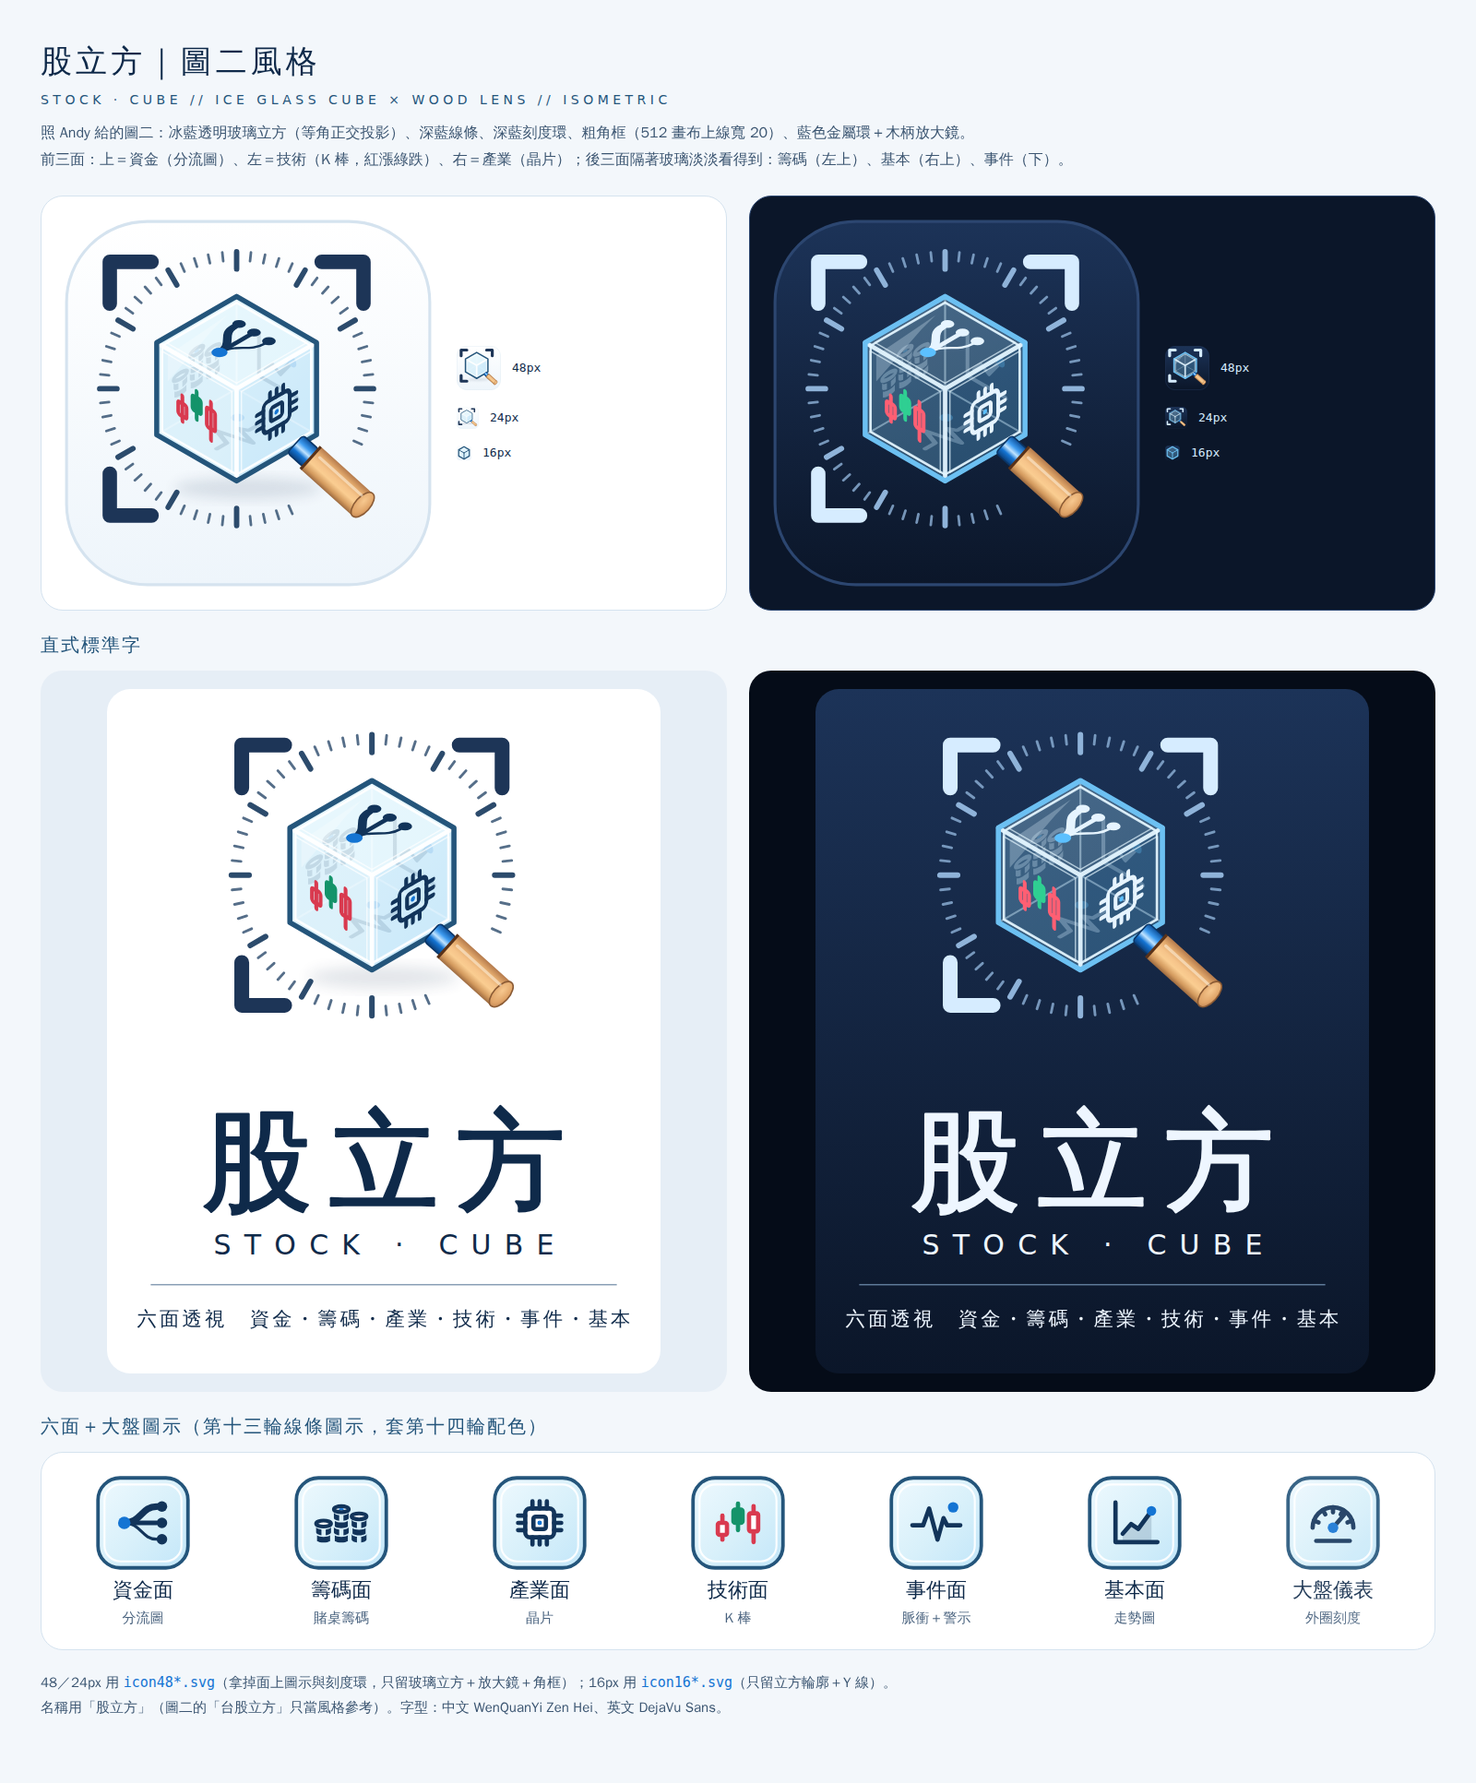
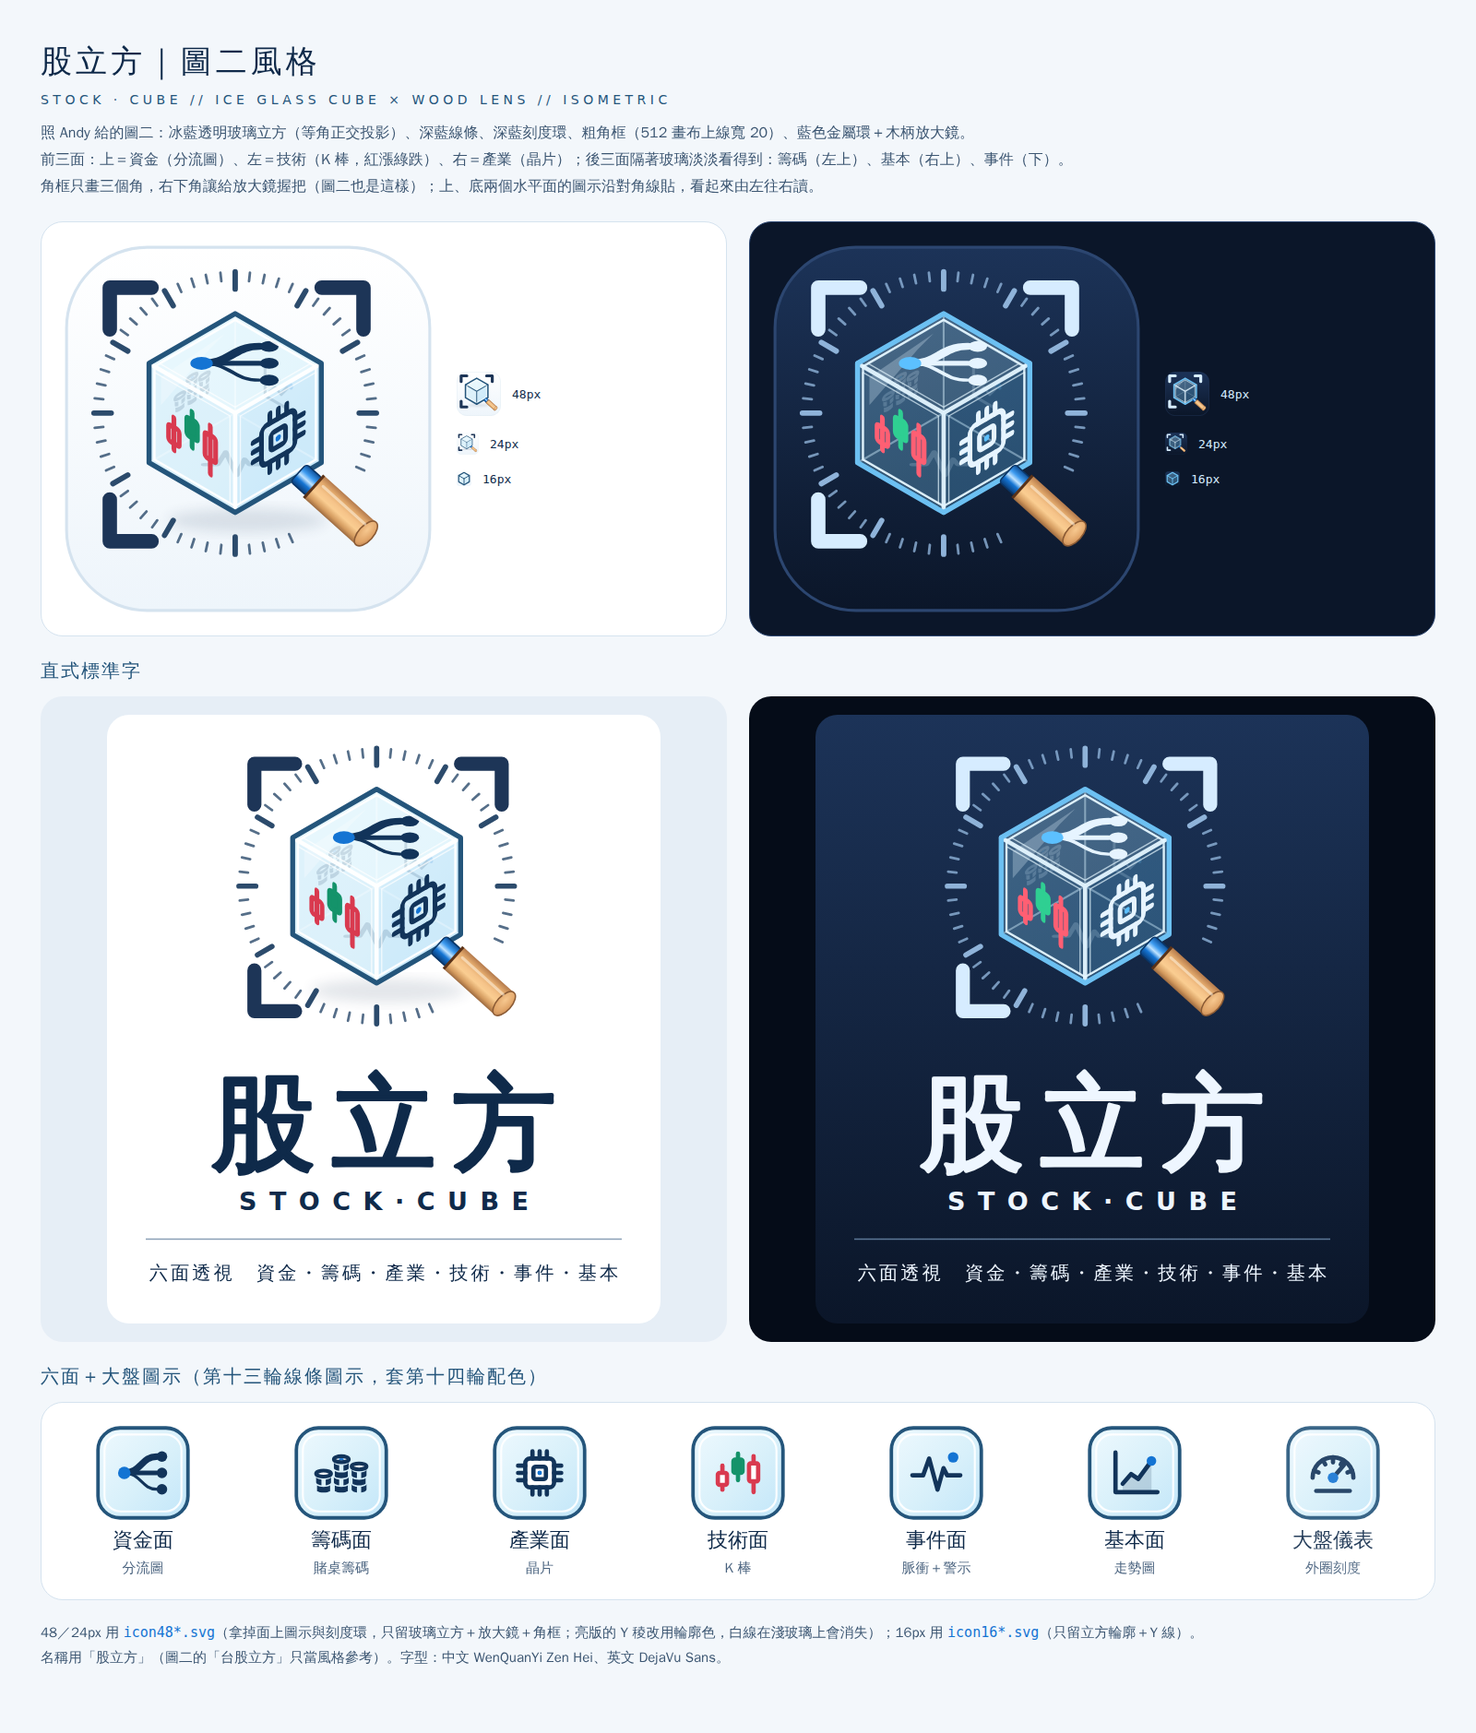
行銷：第十四輪〈股立方〉圖二風格立方標誌（冰藍玻璃＋粗角框＋木柄放大鏡）定稿；六面圖示改版（分流圖／賭桌籌碼／晶片／走勢圖）
Claude-Session: https://claude.ai/code/session_012KwvcGV2Non4TXRandryJJ

diff --git a/docs/brand/v14/_sheet.html b/docs/brand/v14/_sheet.html
@@ -16,13 +16,13 @@ h2{font-size:20px;letter-spacing:.1em;margin:8px 0 14px;color:#24557b}
 </style></head><body>
 <h1>股立方｜圖二風格</h1><div class="en">STOCK · CUBE // ICE GLASS CUBE × WOOD LENS // ISOMETRIC</div>
 <p>照 Andy 給的圖二：冰藍透明玻璃立方（等角正交投影）、深藍線條、深藍刻度環、粗角框（512 畫布上線寬 20）、藍色金屬環＋木柄放大鏡。<br>
-前三面：<b>上＝資金（分流圖）</b>、<b>左＝技術（K 棒，紅漲綠跌）</b>、<b>右＝產業（晶片）</b>；後三面隔著玻璃淡淡看得到：籌碼（左上）、基本（右上）、事件（下）。</p>
+前三面：<b>上＝資金（分流圖）</b>、<b>左＝技術（K 棒，紅漲綠跌）</b>、<b>右＝產業（晶片）</b>；後三面隔著玻璃淡淡看得到：籌碼（左上）、基本（右上）、事件（下）。<br>角框只畫三個角，右下角讓給放大鏡握把（圖二也是這樣）；上、底兩個水平面的圖示沿對角線貼，看起來由左往右讀。</p>
 <div class="row"><div class="card lt"><img class="big" src="icon_light.svg"><div class="smalls"><div class="sz"><img src="icon48.svg" width="48" height="48"><span>48px</span></div><div class="sz"><img src="icon48.svg" width="24" height="24"><span>24px</span></div><div class="sz"><img src="icon16.svg" width="16" height="16"><span>16px</span></div></div></div>
 <div class="card dk"><img class="big" src="icon_dark.svg"><div class="smalls"><div class="sz"><img src="icon48_dark.svg" width="48" height="48"><span>48px</span></div><div class="sz"><img src="icon48_dark.svg" width="24" height="24"><span>24px</span></div><div class="sz"><img src="icon16_dark.svg" width="16" height="16"><span>16px</span></div></div></div></div>
 <h2>直式標準字</h2>
 <div class="row"><div class="lock"><img src="lockup_light.svg"></div><div class="lock" style="background:#050c18"><img src="lockup_dark.svg"></div></div>
 <h2>六面＋大盤圖示（第十三輪線條圖示，套第十四輪配色）</h2>
 <div class="bads"><div class="b"><img src="badge/flow.svg" width="104" height="104"><b>資金面</b><i>分流圖</i></div><div class="b"><img src="badge/chips.svg" width="104" height="104"><b>籌碼面</b><i>賭桌籌碼</i></div><div class="b"><img src="badge/chain.svg" width="104" height="104"><b>產業面</b><i>晶片</i></div><div class="b"><img src="badge/tech.svg" width="104" height="104"><b>技術面</b><i>K 棒</i></div><div class="b"><img src="badge/event.svg" width="104" height="104"><b>事件面</b><i>脈衝＋警示</i></div><div class="b"><img src="badge/fund.svg" width="104" height="104"><b>基本面</b><i>走勢圖</i></div><div class="b"><img src="badge/market.svg" width="104" height="104"><b>大盤儀表</b><i>外圈刻度</i></div></div>
-<p class="foot">48／24px 用 <code>icon48*.svg</code>（拿掉面上圖示與刻度環，只留玻璃立方＋放大鏡＋角框）；16px 用 <code>icon16*.svg</code>（只留立方輪廓＋Y 線）。<br>
+<p class="foot">48／24px 用 <code>icon48*.svg</code>（拿掉面上圖示與刻度環，只留玻璃立方＋放大鏡＋角框；亮版的 Y 稜改用輪廓色，白線在淺玻璃上會消失）；16px 用 <code>icon16*.svg</code>（只留立方輪廓＋Y 線）。<br>
 名稱用「股立方」（圖二的「台股立方」只當風格參考）。字型：中文 WenQuanYi Zen Hei、英文 DejaVu Sans。</p>
 </body></html>

diff --git a/docs/brand/v14/_gen.py b/docs/brand/v14/_gen.py
@@ -15,14 +15,14 @@ LIGHT = dict(
     glyph='#12345a', acc='#1474d3', rise='#d93a4f', fall='#14936a',
     outline='#24557b', tick='#2c4b6c', bracket='#1d3557',
     top='#e8f7fd', left='#d7eefa', right='#c6e8fa', base='#dff2fb', face_op=.55, base_op=.92,
-    hi='#ffffff', hidden_op=.75, back_op=.28)
+    hi='#ffffff', hidden_op=.75, back_op=.32)
 DARK = dict(
     name='dark', bg0='#1c3358', bg1='#0b1629', tile_stroke='#2c4670',
     ink='#eef6ff', sub='#9fb6cf', rule='#5d7898',
     glyph='#e6f4ff', acc='#5cc0ff', rise='#ff5f73', fall='#2fcf92',
     outline='#6cc0f2', tick='#8fb3d9', bracket='#d6ecff',
     top='#a9e2fb', left='#7cc6ef', right='#5aaee0', base='#6fbde8', face_op=.2, base_op=.16,
-    hi='#e4f6ff', hidden_op=.45, back_op=.3)
+    hi='#e4f6ff', hidden_op=.45, back_op=.2)
 
 # 面上的圖示：前三面（上＝資金分流、左＝技術 K 棒、右＝產業晶片），後三面隔著玻璃（籌碼、事件、基本）
 FRONT = {'top': v13.flow, 'left': v13.candle, 'right': v13.chain}
@@ -54,6 +54,20 @@ class Cube:
         O, X, Y = self.face[k]
         D = (X[0] + Y[0] - O[0], X[1] + Y[1] - O[1])
         return [O, X, D, Y]
+
+    def matrix_flat(self, k, fill=.62):
+        """水平面（上、底）改用「沿兩條對角線」貼：等於把圖示在面上轉 45° 再投影 ——
+        仍然精準落在面上，但看起來是水平、由左往右讀（圖二上面那顆輪動箭頭就是這樣擺的）。
+        fill：圖示半寬／面的半對角線（圖示四角是空的，所以可以略大於內接的 0.5）"""
+        q = self.quad(k)
+        cx = sum(x for x, _ in q)/4; cy = sum(y for _, y in q)/4
+        a = S3*self.s*fill; b = .5*self.s*fill              # 水平、垂直半對角線 × fill
+        f = 2/24
+        return f'matrix({a*f:.4f} 0 0 {b*f:.4f} {cx - a:.2f} {cy - b:.2f})'
+
+    def place(self, k, pad):
+        # 水平面的大小另外換算：前面（pad 小）用 0.6、隔著玻璃的底面（pad 大）用 0.44
+        return self.matrix_flat(k, .6 if pad < .2 else .44) if k in ('top', 'bottom') else self.matrix(k, pad)
 
     def matrix(self, k, pad=.17):
         """把 24×24 圖示貼進面 k（四周留 pad 比例的邊）"""
@@ -109,7 +123,8 @@ def brackets(P, x0, y0, x1, y1, L, w, corners=('tl', 'tr', 'bl')):
     return f'<path d="{"".join(seg[c] for c in corners)}" fill="none" stroke="{P["bracket"]}" stroke-width="{w}" stroke-linecap="round" stroke-linejoin="round"/>'
 
 
-def glass_cube(cb, P, u, glyphs=True, ow=7.0, yw=7.0, sw=1.7):
+def glass_cube(cb, P, u, glyphs=True, ow=7.0, yw=7.0, sw=1.7, ycol=None):
+    """ycol：前面 Y 稜的顏色；大圖用白色高光（圖二的做法），48px 改用輪廓色，否則白線在淺色玻璃上會消失"""
     C = cb.C; s = cb.s
     o = []
     # 地上的影子（只有亮版）
@@ -120,7 +135,7 @@ def glass_cube(cb, P, u, glyphs=True, ow=7.0, yw=7.0, sw=1.7):
     # 2) 後三面的圖示（隔著玻璃，淡）＋看不見的三條稜（白色細線）
     if glyphs:
         for k, fn in BACK.items():
-            o.append(f'<g opacity="{P["back_op"]}" transform="{cb.matrix(k)}">{glyph(fn, P, sw)}</g>')
+            o.append(f'<g opacity="{P["back_op"]}" transform="{cb.place(k, .27)}">{glyph(fn, P, sw)}</g>')
     o.append(f'<path d="M{C[0]:.1f} {C[1]:.1f}L{cb.T[0]:.1f} {cb.T[1]:.1f}M{C[0]:.1f} {C[1]:.1f}L{cb.LL[0]:.1f} {cb.LL[1]:.1f}M{C[0]:.1f} {C[1]:.1f}L{cb.LR[0]:.1f} {cb.LR[1]:.1f}" '
              f'stroke="{P["hi"]}" stroke-width="{yw*.45:.1f}" stroke-opacity="{P["hidden_op"]}" stroke-linecap="round"/>')
     # 3) 前三面：各自一層玻璃色＋內側白色細框（玻璃厚度的高光）
@@ -134,10 +149,10 @@ def glass_cube(cb, P, u, glyphs=True, ow=7.0, yw=7.0, sw=1.7):
     o.append(f'<polygon points="{pts([(a[0] + s*.12, a[1] + s*.14), (b[0] - s*.1, b[1] + s*.2), (b[0] - s*.26, b[1] + s*.36), (a[0] + s*.12, a[1] + s*.42)])}" fill="{P["hi"]}" opacity=".28"/>')
     if glyphs:
         for k, fn in FRONT.items():
-            o.append(f'<g transform="{cb.matrix(k)}">{glyph(fn, P, sw)}</g>')
+            o.append(f'<g transform="{cb.place(k, .11)}">{glyph(fn, P, sw)}</g>')
     # 4) 前面的 Y 稜（白色亮線）＋外輪廓（藍色粗圓角線）＋輪廓內側一圈白
     o.append(f'<path d="M{C[0]:.1f} {C[1]:.1f}L{cb.UL[0]:.1f} {cb.UL[1]:.1f}M{C[0]:.1f} {C[1]:.1f}L{cb.UR[0]:.1f} {cb.UR[1]:.1f}M{C[0]:.1f} {C[1]:.1f}L{cb.B[0]:.1f} {cb.B[1]:.1f}" '
-             f'stroke="{P["hi"]}" stroke-width="{yw:.1f}" stroke-opacity=".95" stroke-linecap="round"/>')
+             f'stroke="{ycol or P["hi"]}" stroke-width="{yw:.1f}" stroke-opacity=".95" stroke-linecap="round"/>')
     o.append(f'<polygon points="{pts(shrink(cb.hex, C, 1 - (ow*1.25)/s))}" fill="none" stroke="{P["hi"]}" stroke-opacity=".9" stroke-width="{ow*.45:.1f}" stroke-linejoin="round"/>')
     o.append(f'<polygon points="{pts(cb.hex)}" fill="none" stroke="{P["outline"]}" stroke-width="{ow:.1f}" stroke-linejoin="round"/>')
     return ''.join(o)
@@ -173,8 +188,8 @@ def icon(P, u, size='L', tile=True):
         o.append('</svg>')
         return '\n'.join(o)
     if size == 'L':
-        cx, cy, s = 240, 236, 128
-        o.append(ring(P, cx, cy, 190))
+        cx, cy, s = 238, 234, 138
+        o.append(ring(P, cx, cy, 196))
         o.append(brackets(P, 64, 60, 416, 412, 58, 20))
         cb = Cube(cx, cy, s)
         o.append(glass_cube(cb, P, u, glyphs=True, ow=7, yw=6, sw=1.7))
@@ -183,7 +198,7 @@ def icon(P, u, size='L', tile=True):
         cx, cy, s = 232, 226, 150
         o.append(brackets(P, 52, 48, 412, 408, 66, 34))
         cb = Cube(cx, cy, s)
-        o.append(glass_cube(cb, P, u, glyphs=False, ow=16, yw=14))
+        o.append(glass_cube(cb, P, u, glyphs=False, ow=16, yw=11, ycol=P['outline'] if P['name'] == 'light' else None))
         o.append(magnifier(cb, P, u, k=1.32))
     o.append('</svg>')
     return '\n'.join(o)
@@ -194,23 +209,23 @@ def save(name, s):
 
 
 # ---------- 直式標準字 ----------
-NAME, EN = '股立方', 'STOCK · CUBE'
+NAME, EN = '股立方', 'STOCK·CUBE'
 TAG = '六面透視　資金・籌碼・產業・技術・事件・基本'
 
 def lockup(P, u):
     ic = icon(P, u, 'L', tile=False)
     inner = ic.split('>', 1)[1].rsplit('</svg>', 1)[0]      # 直接內嵌（用 <img> 開的 SVG 不能再引用外部檔）
-    W, H = 760, 940
+    W, H = 800, 880
     bg = (f'<rect width="{W}" height="{H}" rx="32" fill="{P["bg0"]}"/>' if P['name'] == 'light' else
           f'<defs><linearGradient id="{u}lbg" x1="0" y1="0" x2="0" y2="1"><stop offset="0" stop-color="{P["bg0"]}"/><stop offset="1" stop-color="{P["bg1"]}"/></linearGradient></defs>'
           f'<rect width="{W}" height="{H}" rx="32" fill="url(#{u}lbg)"/>')
     # letter-spacing 會在最後一個字後面也加一段，所以置中時 x 往右補半個字距
     return f'''<svg xmlns="http://www.w3.org/2000/svg" viewBox="0 0 {W} {H}" width="{W}" height="{H}">{bg}
-<svg x="120" y="16" width="520" height="520" viewBox="0 0 512 512">{inner}</svg>
-<text x="{W/2 + 12}" y="700" text-anchor="middle" font-family="WenQuanYi Zen Hei" font-size="150" font-weight="700" letter-spacing="24" fill="{P["ink"]}" stroke="{P["ink"]}" stroke-width="3.5" stroke-linejoin="round">{NAME}</text>
-<text x="{W/2 + 9}" y="776" text-anchor="middle" font-family="DejaVu Sans" font-size="38" letter-spacing="18" fill="{P["ink"]}">{EN}</text>
-<path d="M60 818H{W - 60}" stroke="{P["rule"]}" stroke-width="2"/>
-<text x="{W/2 + 2}" y="874" text-anchor="middle" font-family="WenQuanYi Zen Hei" font-size="27" font-weight="600" letter-spacing="4" fill="{P["ink"]}">{TAG}</text></svg>'''
+<svg x="{W/2 - 260 + 8}" y="10" width="520" height="520" viewBox="0 0 512 512">{inner}</svg>
+<text x="{W/2 + 12}" y="642" text-anchor="middle" font-family="WenQuanYi Zen Hei" font-size="150" font-weight="700" letter-spacing="24" fill="{P["ink"]}" stroke="{P["ink"]}" stroke-width="6" stroke-linejoin="round">{NAME}</text>
+<text x="{W/2 + 9}" y="716" text-anchor="middle" font-family="DejaVu Sans" font-weight="700" font-size="36" letter-spacing="18" fill="{P["ink"]}">{EN}</text>
+<path d="M56 758H{W - 56}" stroke="{P["rule"]}" stroke-width="2"/>
+<text x="{W/2 + 2}" y="816" text-anchor="middle" font-family="WenQuanYi Zen Hei" font-size="27" font-weight="600" letter-spacing="4" fill="{P["ink"]}">{TAG}</text></svg>'''
 
 
 # ---------- 六面＋大盤徽章（第十四輪配色：冰藍玻璃底、深藍線） ----------
@@ -250,14 +265,14 @@ h2{{font-size:20px;letter-spacing:.1em;margin:8px 0 14px;color:#24557b}}
 </style></head><body>
 <h1>股立方｜圖二風格</h1><div class="en">STOCK · CUBE // ICE GLASS CUBE × WOOD LENS // ISOMETRIC</div>
 <p>照 Andy 給的圖二：冰藍透明玻璃立方（等角正交投影）、深藍線條、深藍刻度環、粗角框（512 畫布上線寬 20）、藍色金屬環＋木柄放大鏡。<br>
-前三面：<b>上＝資金（分流圖）</b>、<b>左＝技術（K 棒，紅漲綠跌）</b>、<b>右＝產業（晶片）</b>；後三面隔著玻璃淡淡看得到：籌碼（左上）、基本（右上）、事件（下）。</p>
+前三面：<b>上＝資金（分流圖）</b>、<b>左＝技術（K 棒，紅漲綠跌）</b>、<b>右＝產業（晶片）</b>；後三面隔著玻璃淡淡看得到：籌碼（左上）、基本（右上）、事件（下）。<br>角框只畫三個角，右下角讓給放大鏡握把（圖二也是這樣）；上、底兩個水平面的圖示沿對角線貼，看起來由左往右讀。</p>
 <div class="row"><div class="card lt"><img class="big" src="icon_light.svg"><div class="smalls">{sm('')}</div></div>
 <div class="card dk"><img class="big" src="icon_dark.svg"><div class="smalls">{sm('_dark')}</div></div></div>
 <h2>直式標準字</h2>
 <div class="row"><div class="lock"><img src="lockup_light.svg"></div><div class="lock" style="background:#050c18"><img src="lockup_dark.svg"></div></div>
 <h2>六面＋大盤圖示（第十三輪線條圖示，套第十四輪配色）</h2>
 <div class="bads">{bd}</div>
-<p class="foot">48／24px 用 <code>icon48*.svg</code>（拿掉面上圖示與刻度環，只留玻璃立方＋放大鏡＋角框）；16px 用 <code>icon16*.svg</code>（只留立方輪廓＋Y 線）。<br>
+<p class="foot">48／24px 用 <code>icon48*.svg</code>（拿掉面上圖示與刻度環，只留玻璃立方＋放大鏡＋角框；亮版的 Y 稜改用輪廓色，白線在淺玻璃上會消失）；16px 用 <code>icon16*.svg</code>（只留立方輪廓＋Y 線）。<br>
 名稱用「股立方」（圖二的「台股立方」只當風格參考）。字型：中文 WenQuanYi Zen Hei、英文 DejaVu Sans。</p>
 </body></html>'''
 

diff --git a/docs/marketing/six_faces.md b/docs/marketing/six_faces.md
@@ -23,15 +23,15 @@
 ## 簡易圖示（`docs/brand/v13/`，總覽 `六面圖示.png`）
 | 面 | 圖示 | 檔名 |
 |---|---|---|
-| 資金面 | 兩段輪動箭頭＋盤心 | `flow` |
-| 籌碼面 | 一疊籌碼（字面意思） | `chips` |
-| 產業面 | 上游 → 樞紐 → 下游節點 | `chain` |
+| 資金面 | 分流圖：左邊一個來源點，三條粗細不同的平滑曲線流到右邊三個族群（網站「資金去向」的簡易版） | `flow` |
+| 籌碼面 | 賭桌籌碼：三疊高低不同，側邊有賭場籌碼的色塊缺口 | `chips` |
+| 產業面 | 晶片（IC）：方形外框、四邊針腳、中間內方塊（檔名沿用 `chain`） | `chain` |
 | 技術面 | 三根 K 棒（線條版空心＝漲、實心＝跌；徽章版紅漲綠跌） | `tech` |
 | 事件面 | 脈衝＋警示點 | `event` |
-| 基本面 | 財報文件＋營收上升線 | `fund` |
+| 基本面 | 走勢圖：L 形座標軸＋走勢折線＋末端一點（徽章版加淡淡面積） | `fund` |
 | 大盤儀表（外圈，不算一面） | 儀表盤 | `market` |
 
 - `line/*.svg`：24×24、單色 `currentColor`，放進網站會跟著深淺主題變色；48／24／16px 都驗過看得清楚。
 - `badge/*.svg`：96×96 霧面玻璃徽章（同第十二輪的配色），對外宣傳、介紹頁用。
 - `faces.svg`：sprite，網站用 `<svg><use href="faces.svg#face-flow"/></svg>`。
-- ⚠ 籌碼面、基本面的圖示和第十二輪立方面上的圖（正負柱、營收線）不同 —— 簡易圖示以「一眼認得」優先；立方面上的圖要不要跟著換，等標誌定案一起改。
+- 2026-10-02 第十四輪（`docs/brand/v14/`，總覽 `股立方_圖二風格.png`）：照圖二風格重做標誌，立方面上的圖直接用這一套簡易圖示（上＝資金、左＝技術、右＝產業；後三面隔著玻璃：籌碼、基本、事件），兩邊已經一致。

diff --git a/HANDOFF.md b/HANDOFF.md
@@ -30,6 +30,7 @@ pytest 639 passed（只動 `site/**` 與 `_uitest.py`，照規矩可跳，仍跑
 - **交給 Codex 設計（2026-09-26 晚，Andy：「我需要提供網頁給 codeX 設計」）**：說明書 `docs/codex_design_brief.md`
   （分支規則：從本分支開 `codex/ui-design`、PR 合回本分支、絕不推 main；setup script 要先 `build_payload`；可改／不可改的檔案；硬規則；驗收段落）。
   `_preview.py`／`_uitest.py`／`_show.py` 的 Chromium 路徑改成「有 /opt/pw-browsers/chromium 才用，沒有就用 Playwright 自己裝的」，Codex 環境才跑得起來。
+- **品牌第十三～十四輪（2026-10-02）**：六面簡易圖示改版（資金＝分流圖、籌碼＝賭桌籌碼、產業＝晶片、基本＝走勢圖；`docs/brand/v13/`），照 Andy 圖二重做冰藍玻璃立方標誌＋粗角框（`docs/brand/v14/`，名稱用〈股立方〉）。尚未套進網站。
 - **品牌第十二輪（2026-10-02）**：命名收斂為〈股立方〉（全名台股立方），照 Andy 的參考圖重畫（霧面玻璃立方＋暖色 HUD＋木柄放大鏡）；`docs/brand/v12/`。尚未套進網站。
 - **品牌第十一輪（2026-10-02）**：〈台股立方〉× 六角鏡片 × 半透明立方（HUD 透視），每面一個指標；圖與產生器在 `docs/brand/v11/`，說明在 `docs/marketing/brand_direction.md` 最後一節。尚未套進網站（命名未定案）。
 - **命名提案（2026-09-26 晚，Andy：「幫我想個親近點又好記住的名稱以及對應圖案」）**：四個方向，圖在 `docs/brand/`（四支 SVG ＋ 提案圖）。
